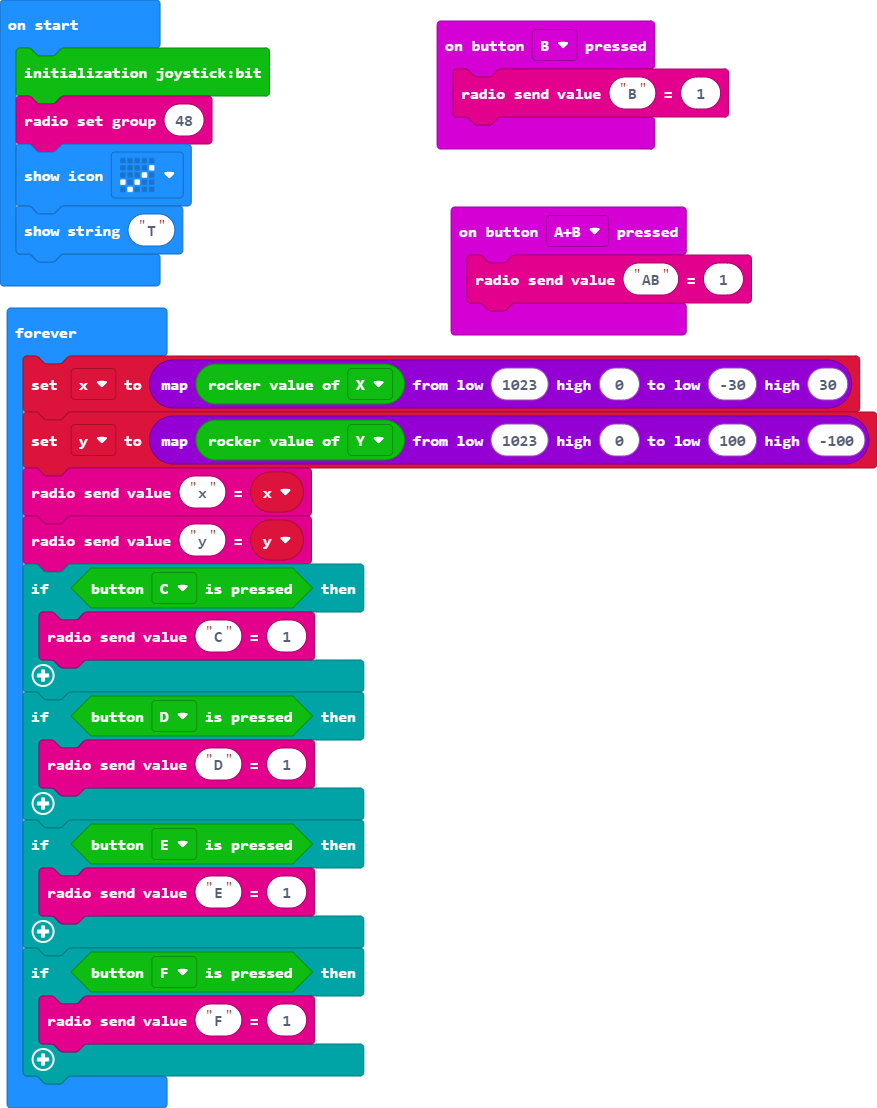
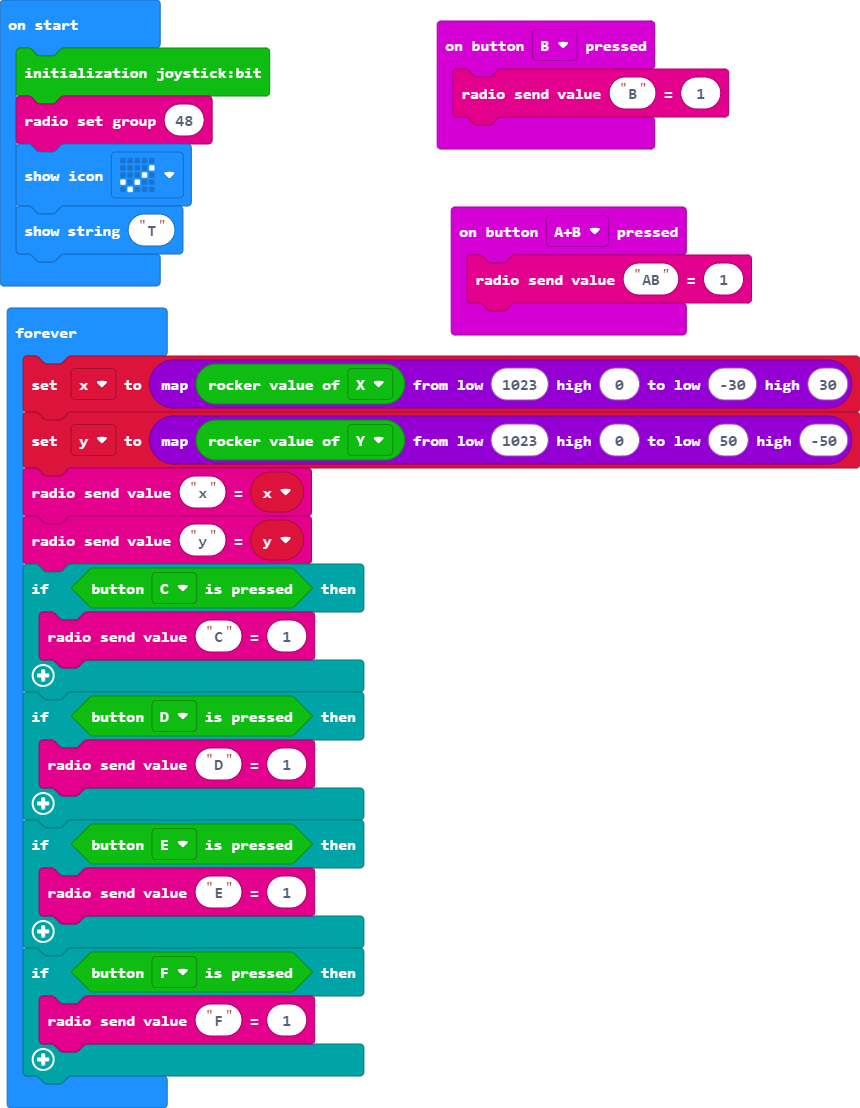
Update main.blocks, main.ts

diff --git a/main.ts b/main.ts
@@ -12,7 +12,7 @@ basic.showIcon(IconNames.Yes)
 basic.showString("T")
 basic.forever(function () {
     x = Math.map(joystickbit.getRockerValue(joystickbit.rockerType.X), 1023, 0, -30, 30)
-    y = Math.map(joystickbit.getRockerValue(joystickbit.rockerType.Y), 1023, 0, 100, -100)
+    y = Math.map(joystickbit.getRockerValue(joystickbit.rockerType.Y), 1023, 0, 50, -50)
     radio.sendValue("x", x)
     radio.sendValue("y", y)
     if (joystickbit.getButton(joystickbit.JoystickBitPin.P12)) {
